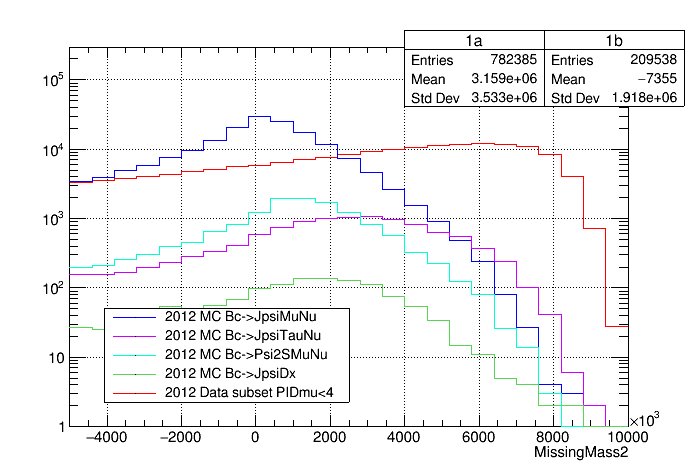
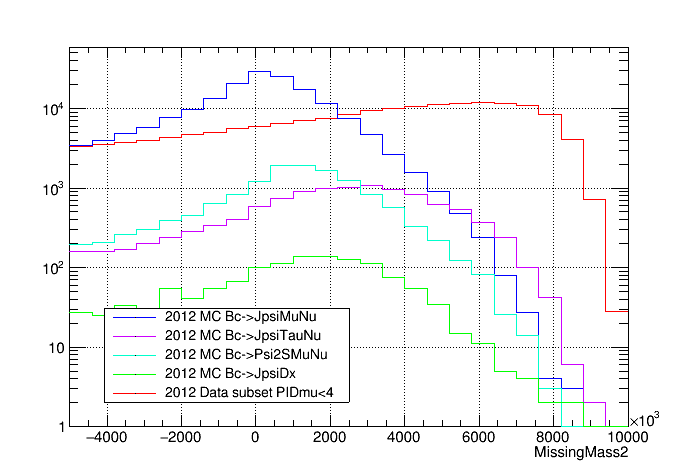
Update plot to hide the stat boxes

diff --git a/tupleProduction/project_compare_histograms.C b/tupleProduction/project_compare_histograms.C
@@ -128,19 +128,20 @@ hist1a->SetLineColor(kRed);
 hist1b->SetLineColor(kBlue);
 hist1c->SetLineColor(kViolet);
 hist1d->SetLineColor(kTeal);
-hist1e->SetLineColor(kYellow);
+hist1e->SetLineColor(kGreen);
 auto max1 = std::max(hist1a->GetMaximum(),hist1b->GetMaximum());
-hist1a->SetMaximum(max1*10);
+hist1a->SetMaximum(max1*2);
 hist1a->SetTitle("");
 hist1a->GetXaxis()->SetTitle(title1);
 hist1a->GetYaxis()->SetTitle("");
 hist1a->SetMinimum(1);
 hist1a->Draw();
 gPad->Update();
-TPaveStats *st_1a = (TPaveStats*)hist1a->FindObject("stats");
-st_1a->SetX1NDC(0.58);
-st_1a->SetX2NDC(0.78);
-hist1b->Draw("SAMES");
+gStyle->SetOptStat(0);
+//TPaveStats *st_1a = (TPaveStats*)hist1a->FindObject("stats");
+//st_1a->SetX1NDC(0.58);
+//st_1a->SetX2NDC(0.78);
+hist1b->Draw("SAME");
 hist1c->Draw("SAME");
 hist1d->Draw("SAME");
 hist1e->Draw("SAME");
